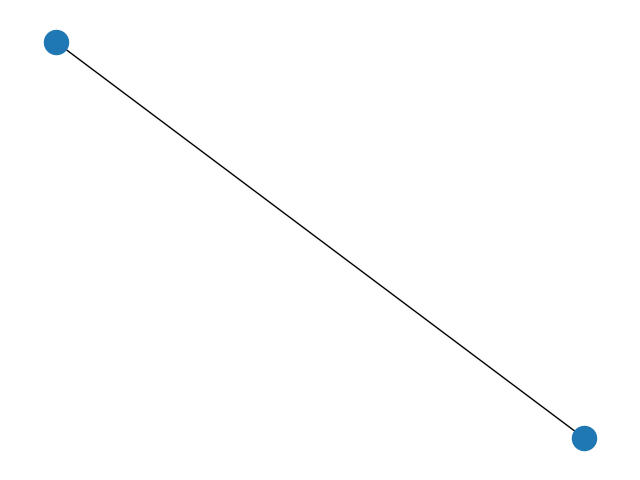
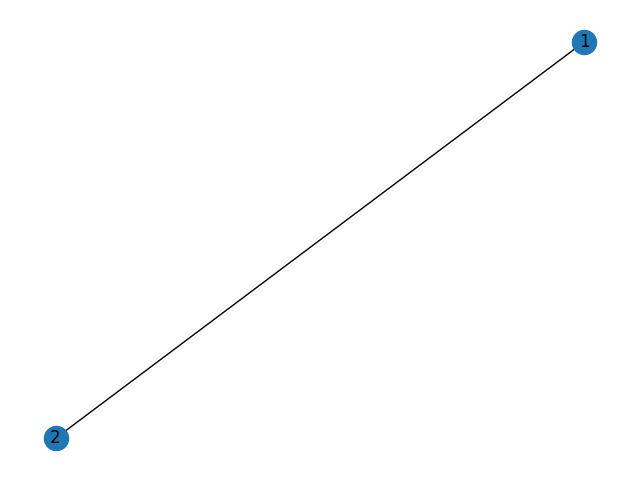
Added DiGraph

diff --git a/test/DiGraph_Test.cpp b/test/DiGraph_Test.cpp
@@ -1,0 +1,55 @@
+//
+// Created by lavr4 on 3/24/2022.
+//
+
+
+#include <boost/test/unit_test.hpp>
+
+#include "pyplot_cpp/DiGraph.hpp"
+#include "pyplot_cpp/plt/Properties.hpp"
+
+BOOST_AUTO_TEST_SUITE(DiGraph_Test)
+
+    BOOST_AUTO_TEST_CASE(DiGraph_EmptyShow_Test) {
+        pyplot_cpp::DiGraph graph;
+
+        graph.setTitle("Simple DiGraph");
+        graph.show();
+    }
+
+    BOOST_AUTO_TEST_CASE(DiGraph_SimpleShow_Test) {
+        pyplot_cpp::DiGraph graph;
+        graph.addEdge("1", "2");
+
+        graph.setTitle("Simple DiGraph");
+        graph.show();
+    }
+
+    BOOST_AUTO_TEST_CASE(DiGraph_SimpleSave_Test) {
+        pyplot_cpp::DiGraph graph;
+        graph.addEdge("1", "2");
+
+        graph.setTitle("Simple DiGraph");
+        graph.save("../../examples/DiGraph_Simple.png");
+    }
+
+    BOOST_AUTO_TEST_CASE(DiGraph_Weighted_SimpleShow_Test) {
+        pyplot_cpp::DiGraph graph;
+        graph.addEdge("1", "2");
+        graph.addEdge("1", "3", "3");
+        graph.addEdge("2", "3", "5");
+
+        graph.setTitle("Simple DiGraph");
+        graph.show();
+    }
+
+    BOOST_AUTO_TEST_CASE(DiGraph_Weighted_SimpleSave_Test) {
+        pyplot_cpp::DiGraph graph;
+        graph.addEdge("1", "2");
+        graph.addEdge("1", "3", "3");
+        graph.addEdge("2", "3", "5");
+
+        graph.setTitle("Simple DiGraph");
+        graph.save("../../examples/DiGraph_Weighted.png");
+    }
+BOOST_AUTO_TEST_SUITE_END()

diff --git a/src/DiGraph.cpp b/src/DiGraph.cpp
@@ -1,0 +1,30 @@
+//
+// Created by lavr4 on 3/24/2022.
+//
+
+#include "pyplot_cpp/DiGraph.hpp"
+
+#include "pyplot_cpp/converter/converter.hpp"
+#include "pyplot_cpp/networkx.h"
+
+void pyplot_cpp::DiGraph::dynamicScript_Configuration() {
+    script.addAssignment("g", "nx.DiGraph()");
+    script.addAssignment("e", converter::vectorToPythonArray(edges));
+    script.addLine("g.add_edges_from(e)");
+
+    if (!wedges.empty()) {
+        script.addAssignment("we", converter::vectorToPythonArray(wedges));
+        script.addLine("g.add_weighted_edges_from(we)");
+    }
+
+    script.addLine("pos = nx.spring_layout(g, pos=nx.circular_layout(g))");
+    script.addLine(pyplot_cpp::nx::draw("g", args, "pos"));
+
+    if (!wedges.empty()) {
+        script.addAssignment("labels", "nx.get_edge_attributes(g, 'weight')");
+        script.addLine(nx::draw_networkx_edge_labels("g", {
+                {"edge_labels", plt::Property("edge_labels", "labels", plt::INT)},
+                {"pos", plt::Property("pos", "pos", plt::INT)}
+        }));
+    }
+}

diff --git a/test/Graph_Test.cpp b/test/Graph_Test.cpp
@@ -42,4 +42,13 @@ BOOST_AUTO_TEST_SUITE(Graph_Test)
         graph.show();
     }
 
+    BOOST_AUTO_TEST_CASE(Graph_Weighted_SimpleSave_Test) {
+        pyplot_cpp::Graph graph;
+        graph.addEdge("1", "2");
+        graph.addEdge("1", "3", "3");
+        graph.addEdge("2", "3", "5");
+
+        graph.setTitle("Simple Graph");
+        graph.save("../../examples/Graph_Weighted.png");
+    }
 BOOST_AUTO_TEST_SUITE_END()

diff --git a/include/pyplot_cpp/DiGraph.hpp b/include/pyplot_cpp/DiGraph.hpp
@@ -1,0 +1,17 @@
+//
+// Created by lavr4 on 3/24/2022.
+//
+
+#ifndef PYPLOT_CPP_DIGRAPH_HPP
+#define PYPLOT_CPP_DIGRAPH_HPP
+
+#include "BaseGraph.hpp"
+
+namespace pyplot_cpp {
+    class DiGraph : public BaseGraph {
+    protected:
+        void dynamicScript_Configuration() override;
+    };
+}
+
+#endif //PYPLOT_CPP_DIGRAPH_HPP

diff --git a/README.md b/README.md
@@ -1,12 +1,8 @@
 # PyPlot_cpp
 
----
-
 ### This is work in progress. May be unstable or not work
 
 Simple library for displaying plots and graphs in c++
-
----
 
 ## Content table
 - [PyPlot_cpp](#pyplot_cpp)
@@ -14,7 +10,7 @@ Simple library for displaying plots and graphs in c++
   - [Building](#building)
   - [Usage](#usage)
 
----
+
 ## Requirements
 
 Firstly, with python script generation, you need to have python and matplotlib installed on your machine.
@@ -86,3 +82,23 @@ int main() {
 <img src="./examples/Hist.png" width="500">
 
 To draw multiple histograms you need to use [Multiple Histogram](./examples/AdvancedPlot.md#multiple-histogram)
+
+## Graphs
+
+### Not-directional graph
+
+Graphs working by networkx library, that working on matplotlib. This library also support to draw graphs.
+```c++
+#include "pyplot_cpp/Graph.hpp"
+
+int main() {
+    pyplot_cpp::Graph graph;
+    graph.addEdge("1", "2");
+
+    graph.setTitle("Simple Graph");
+    graph.show();
+}
+```
+<img src="examples/Graph_Simple.png" width="500">
+
+Also you can draw directional graphs and etc. For more information check [this](examples/AdvancedGraph.md).

diff --git a/examples/AdvancedGraph.md b/examples/AdvancedGraph.md
@@ -1,0 +1,22 @@
+# Advanced usage of Graphs
+
+## Directional graph
+
+To draw directional Graph you need to use different kind of graph: DiGraph.
+```c++
+#include "pyplot_cpp/DiGraph.hpp"
+
+int main() {
+    pyplot_cpp::DiGraph graph;
+    graph.addEdge("1", "2");
+
+    graph.setTitle("Simple DiGraph");
+    graph.show();
+}
+```
+<img src="DiGraph_Simple.png" width="500">
+
+## Graph properties
+
+### Edge weight
+To set edge weight you need to 

diff --git a/examples/AdvancedPlot.md b/examples/AdvancedPlot.md
@@ -1,7 +1,5 @@
 # Advanced usage of Plots
 
----
-
 ## Multiple Plot
 
 MultiplePlot is a graph that can contain more than one graph. It can be displayed using the following code:
